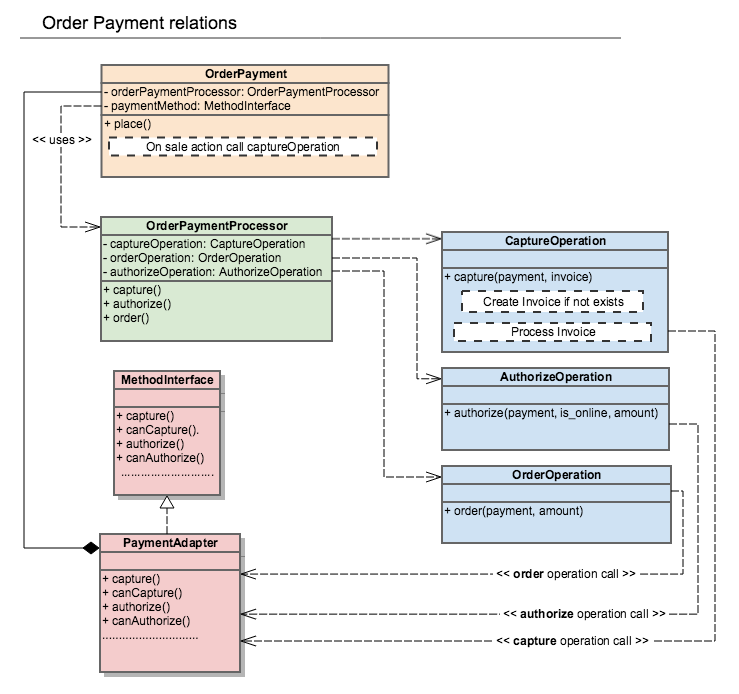
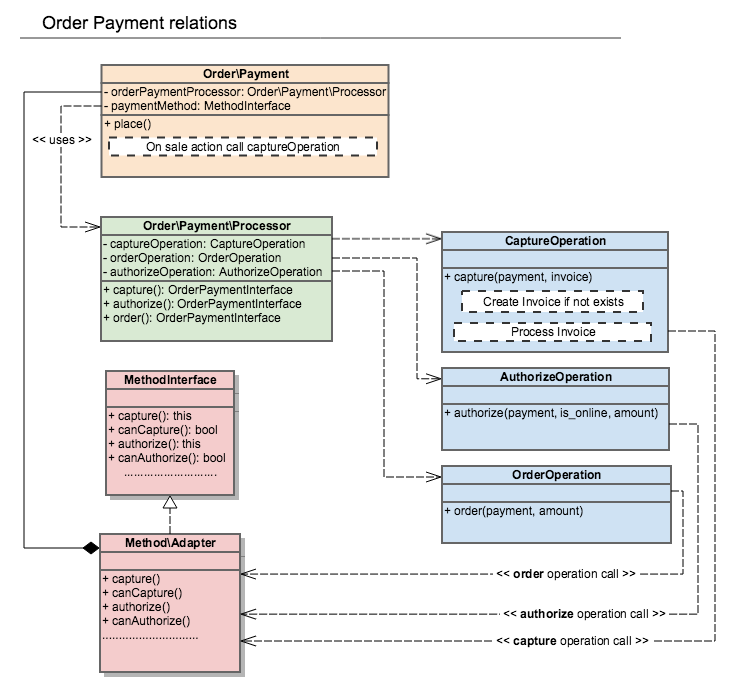
- Added source of SaleOperationInterface - Corrected diagrams

diff --git a/design-documents/Sale_Payment_Operation.md b/design-documents/Sale_Payment_Operation.md
@@ -3,7 +3,7 @@
 
 This operation is available for the majority of payment methods.
 
-Now, each payment method should implement an own workaround for `sale` payment operation, because OrderPayment calls capture instead sale:
+Now, each payment method should implement an own workaround for `sale` payment operation, because [Order\Payment](https://github.com/magento/magento2/blob/2.2-develop/app/code/Magento/Sales/Model/Order/Payment.php#L445) calls capture instead sale:
 
 **Magento\Sales\Model\Order\Payment**
 ```php
@@ -33,15 +33,46 @@ All payment integrations implement boilerplate code for `sale` operation:
 For the current moment, we have next relations in order payment workflow.
 ![](sale_payment_operation_img/order_payment_current.png)
 
-I propose to introduce `SaleOperationInterface` and `Magento\Payment\Model\Method\Adapter` should implement this interface along with `Magento\Payment\Model\MethodInterface`.
+I propose to introduce `Magento\Payment\Model\SaleOperationInterface` and `Magento\Payment\Model\Method\Adapter` should implement this interface along with `Magento\Payment\Model\MethodInterface`.
+```php
+<?php
+namespace Magento\Payment\Model;
 
-`CaptureOperation` includes logic responsible for invoice creating and invoice processing.
-Logic responsible for invoice processing should be extracted from `CaptureOperation` into separate command `ProcessInvoiceOperation`.
+/**
+ * Responsible for support of `sale` payment operation via Magento payment provider gateway.
+ *
+ * @api
+ */
+interface SaleOperationInterface
+{
+    /**
+     * Checks `sale` payment operation availability.
+     *
+     * @return bool
+     *
+     */
+    public function canSale(): bool;
+
+    /**
+     * Executes `sale` payment operation.
+     *
+     * @param InfoInterface $payment
+     * @param float $amount
+     * @return $this
+     *
+     */
+    public function sale(InfoInterface $payment, float $amount);
+}
+```
+
+
+`Magento\Sales\Model\Order\Payment\Operations\CaptureOperation` includes logic responsible for invoice creating and invoice processing.
+Logic responsible for invoice processing should be extracted from `CaptureOperation` into separate command `Magento\Sales\Model\Order\Payment\Operations\ProcessInvoiceOperation`.
 
 `SaleOperation` and `CaptureOperation` commands will use `ProcessInvoiceOperation` for invoice processing and calls to [Magento payment provider gateway](https://devdocs.magento.com/guides/v2.2/payments-integrations/bk-payments-integrations.html).
 ![](sale_payment_operation_img/order_payment_new.png)
 
-`OrderPayment` will call `SaleOpertion` if `sale` operation is available for payment method. Otherway, `CaptureOperation` will be called for backward compatibility with existing payment integrations.
+`Order\Payment` will call `SaleOpertion` if `sale` operation is available for payment method. Otherway, `CaptureOperation` will be called for backward compatibility with existing payment integrations.
 
 **Magento\Sales\Model\Order\Payment**
 ```php
